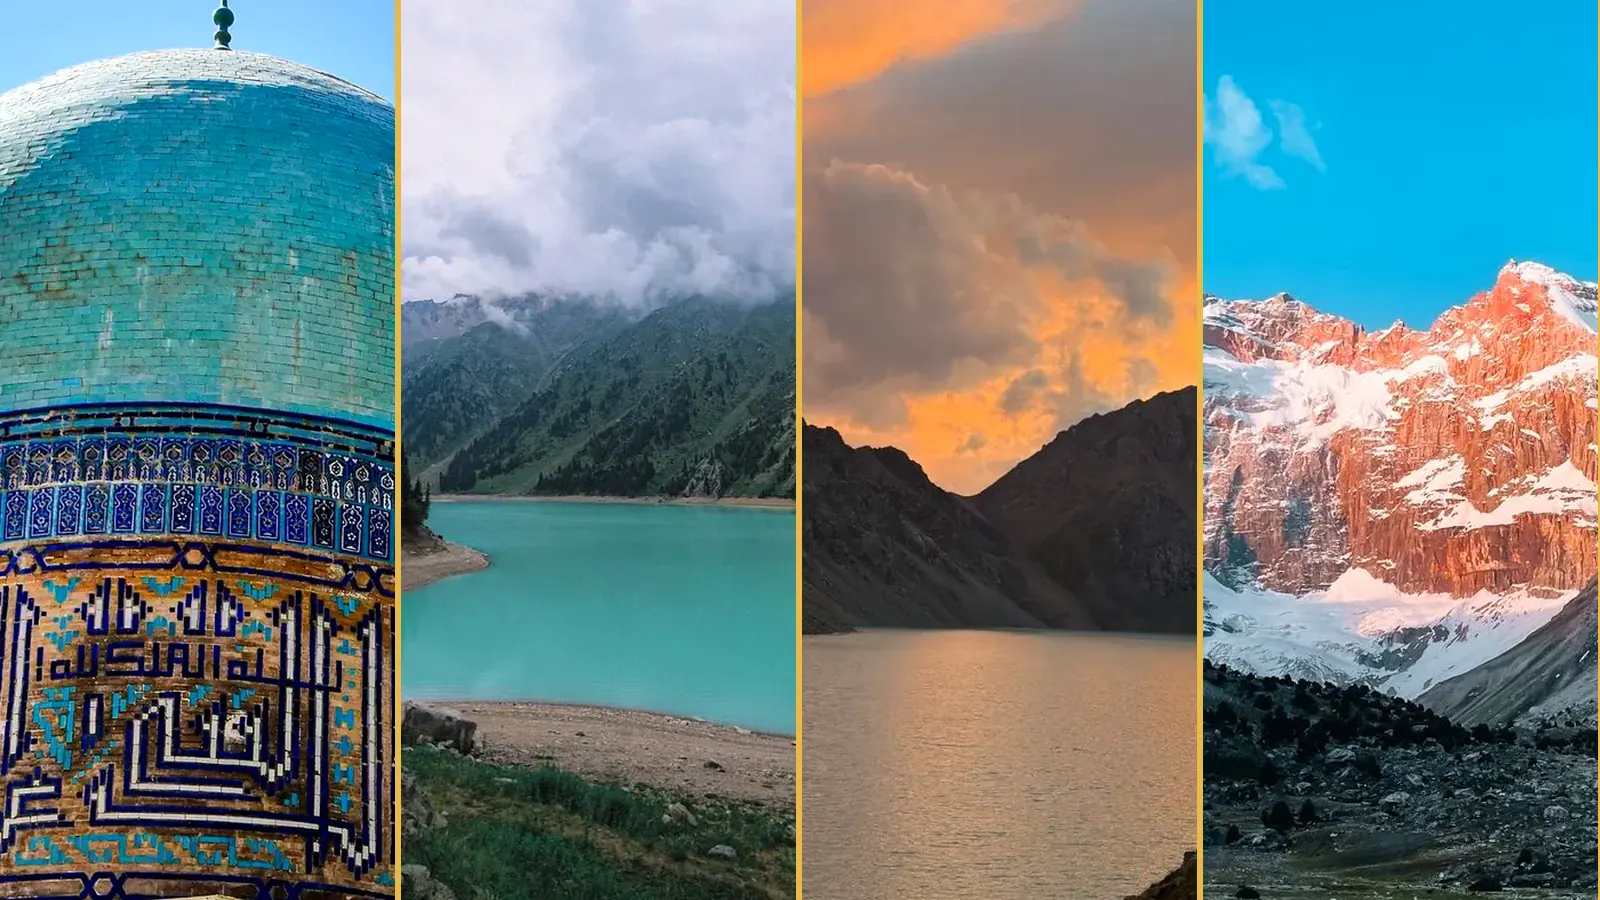
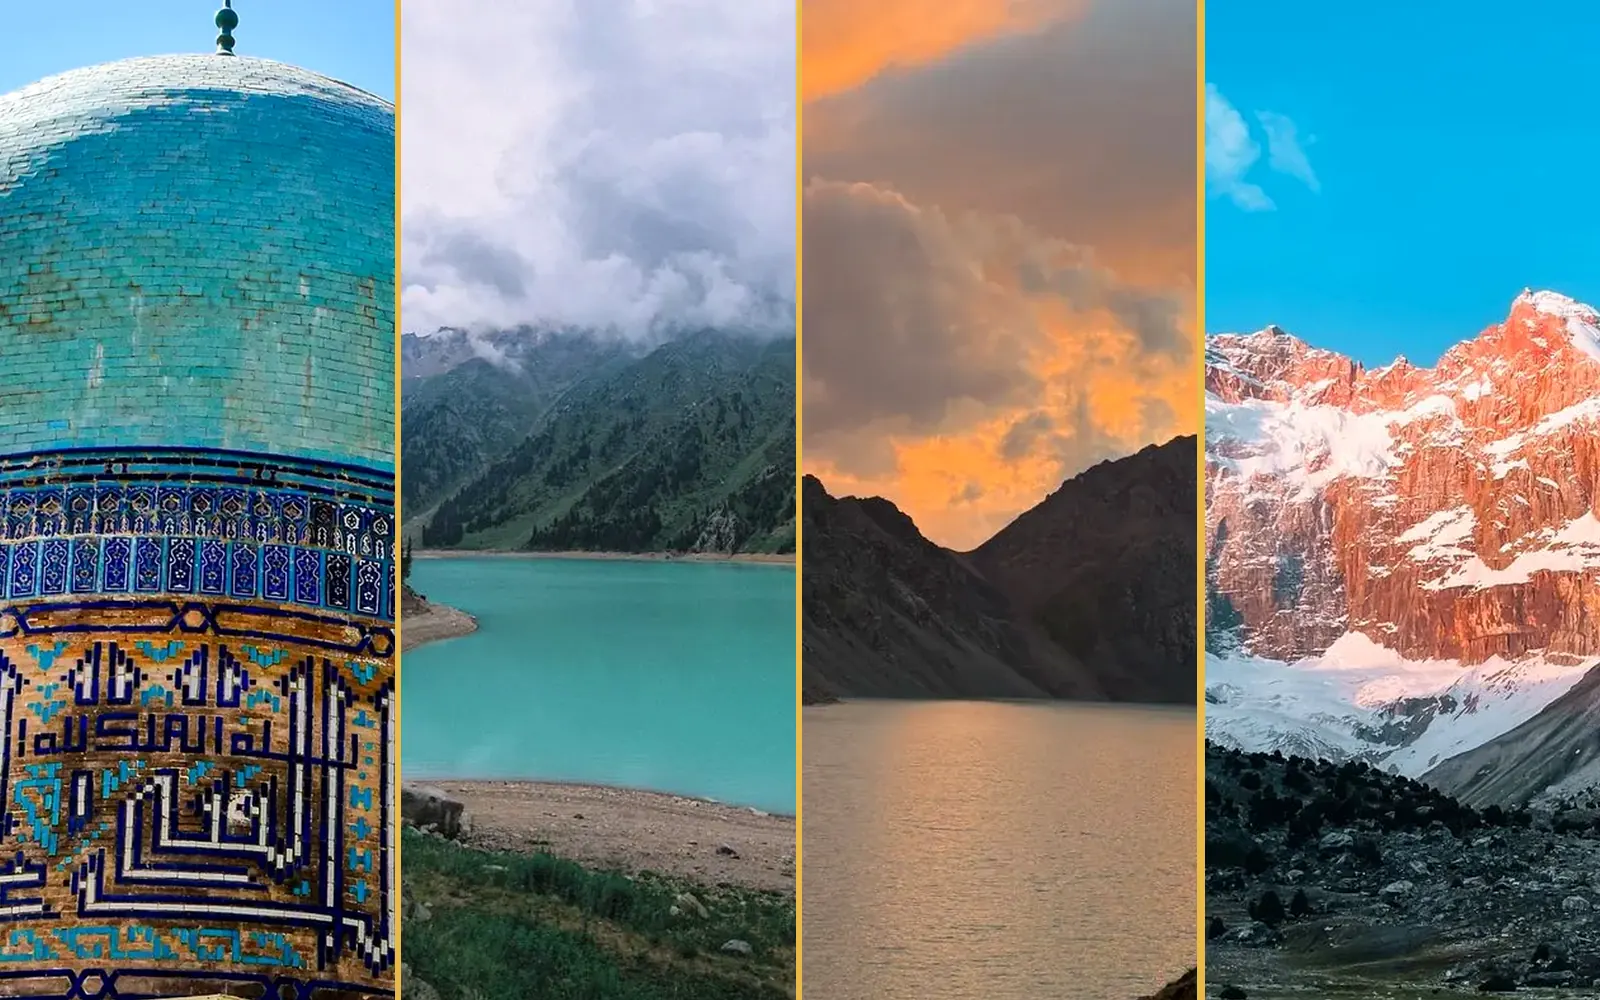
Grand tour cover in exact 16:10
Claude-Session: https://claude.ai/code/session_017GNbtJyN4WjgV7fNJ6QBby

diff --git a/docs/TUR_MUQOVALARI.md b/docs/TUR_MUQOVALARI.md
@@ -15,4 +15,4 @@
 - Muqovani almashtirish: yangi rasmni 16:9 qilib `assets/img/p/` ga qo'ying va `tours_data.py` da `cover` nomini o'zgartiring.
 
 ## Markaziy Osiyo bo'ylab katta sayohat (25.11.2026)
-4 davlat — 4 manzara, oltin chiziqlar bilan ajratilgan: Shohi Zinda gumbazi (O'zbekiston) · Katta Olmaota ko'li (Qozog'iston) · Ala-Ko'l quyosh botishi (Qirg'iziston) · Kulikalon cho'qqilari (Tojikiston). Fayl: `assets/img/p/cover-grand.webp`.
+4 davlat — 4 manzara, oltin chiziqlar bilan ajratilgan: Shohi Zinda gumbazi (O'zbekiston) · Katta Olmaota ko'li (Qozog'iston) · Ala-Ko'l quyosh botishi (Qirg'iziston) · Kulikalon cho'qqilari (Tojikiston). Fayl: `assets/img/p/cover-grand.webp` (16:10, kartochka ramkasiga aniq mos).
